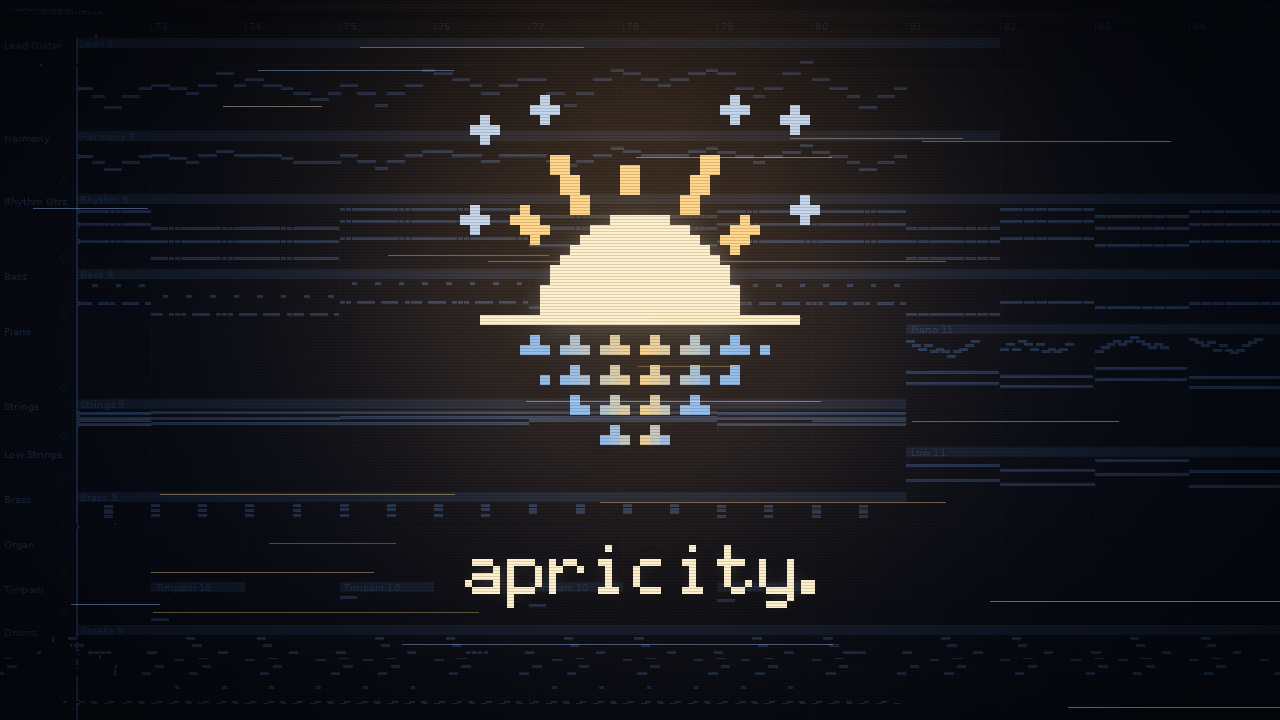
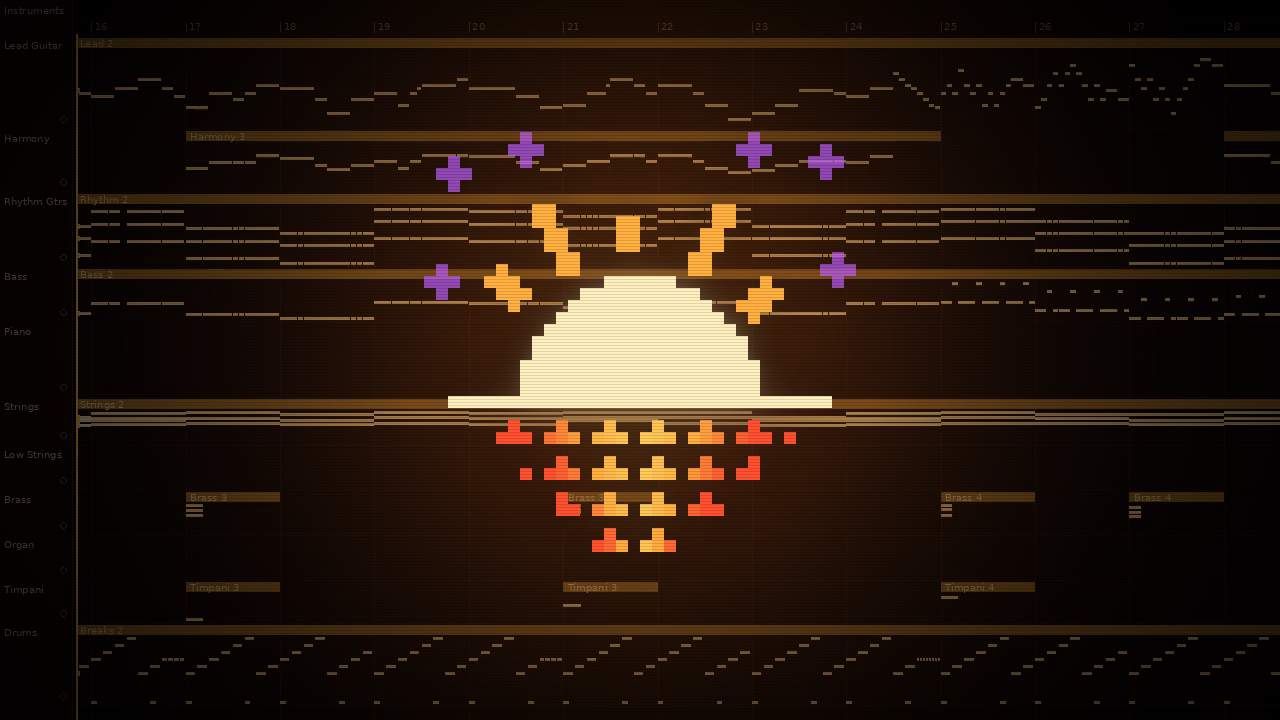
Thumbnail: song-video colours, no title, no random lines
Claude-Session: https://claude.ai/code/session_01C6DbbRrFrEA7dajvf5KuJJ

Changed region(s): [[0.0312, 0.0306, 1.0, 0.9472], [0.0938, 0.7944, 0.2188, 0.825], [0.7188, 0.7944, 0.8125, 0.825]]

diff --git a/music/tools/thumbnail.py b/music/tools/thumbnail.py
@@ -1,9 +1,9 @@
 """Thumbnail for "apricity." in the style of glitchy pixel-icon breakcore covers.
 
 usage: python3 thumbnail.py events.json drums.json song.mp3 out.png
-Background: the song's own arrangement view (from visualize.py), zoomed out, tinted cold and dimmed.
-Centre: a pixel-art winter sun sinking beneath the waves, with a soft glow and drifting snow.
-Below: the title in a pixel font. Scanlines and horizontal glitch bands over everything.
+Background: the song's own arrangement view (from visualize.py), zoomed out and dimmed.
+Centre: a pixel-art sun sinking beneath the waves, with a soft glow and violet sparks.
+Colours from the song video; faint scanlines.
 """
 import sys, os, subprocess, tempfile, random
 import numpy as np
@@ -12,8 +12,8 @@ sys.path.insert(0, os.path.dirname(__file__))
 import visualize
 
 W, H = 1280, 720
-GOLD, CREAM, EMBER = (255, 214, 140), (255, 240, 205), (232, 150, 70)
-COLD_DARK, COLD = (8, 12, 24), (70, 110, 170)
+# the song video's palette (the Drowned Sun fight): ember-black, molten orange, gold, cream, flare red, eclipse violet
+GOLD, CREAM, ORANGE, RED, VIOLET = (255, 208, 96), (255, 240, 192), (255, 176, 64), (255, 80, 48), (192, 96, 255)
 
 def arrangement(events, drums, audio, t=96.0):
     """One frame of the arrangement view, zoomed out so many bars are visible."""
@@ -34,18 +34,19 @@ def icon(grid=40):
         ang = np.pi + (k + 0.5) * np.pi / 7; L = 5 if k % 2 == 0 else 3
         x0, y0 = cx - 0.5 + np.cos(ang) * (r + 2), hy - 0.5 + np.sin(ang) * (r + 2)
         x1, y1 = cx - 0.5 + np.cos(ang) * (r + 2 + L), hy - 0.5 + np.sin(ang) * (r + 2 + L)
-        d.line([(round(x0), round(y0)), (round(x1), round(y1))], fill=GOLD, width=2)
+        d.line([(round(x0), round(y0)), (round(x1), round(y1))], fill=ORANGE, width=2)
     d.line([(cx - 16, hy), (cx + 15, hy)], fill=CREAM)            # the horizon
     for row, half in [(hy + 3, 13), (hy + 6, 10), (hy + 9, 7), (hy + 12, 4)]:   # swells, narrowing
         for x in range(cx - half, cx + half):
             if (x - cx) % 4 == 3: continue                        # little breaks between crests
             near = abs(x - cx + 0.5) / half
-            c = tuple(int(GOLD[i] + ((150, 190, 235)[i] - GOLD[i]) * min(1, near * 1.4)) for i in range(3))
+            f = min(1, near * 1.4); a0, a1, k = (GOLD, ORANGE, f * 2) if f < 0.5 else (ORANGE, RED, f * 2 - 1)
+            c = tuple(int(a0[i] + (a1[i] - a0[i]) * k) for i in range(3))
             d.point((x, row), fill=c)
             if (x - cx) % 4 == 1: d.point((x, row - 1), fill=c)   # a crest pixel above each wave
-    for fx, fy in [(4, 4), (35, 3), (3, 13), (36, 12), (10, 2), (29, 2)]:  # snowflakes: small crosses, in open sky
+    for fx, fy in [(4, 4), (35, 3), (3, 13), (36, 12), (10, 2), (29, 2)]:  # eclipse-violet sparks, in open sky
         for dx, dy in [(0, 0), (1, 0), (-1, 0), (0, 1), (0, -1)]:
-            d.point((fx + dx, fy + dy), fill=(214, 232, 255, 230))
+            d.point((fx + dx, fy + dy), fill=VIOLET + (175,))
     return img
 
 GLYPHS = {   # 5-wide pixel font, rows 0-6 + 2 descender rows
@@ -70,45 +71,24 @@ def pixel_text(text, scale):
     return m.resize((m.width * scale, m.height * scale), Image.NEAREST)
 
 def main(events, drums, audio, out):
-    rnd = random.Random(11)
-    # background: the arrangement, made cold and quiet
-    bg = arrangement(events, drums, audio).resize((W, H))
-    g = np.asarray(bg.convert('L'), np.float32) / 255
-    base = np.array(COLD_DARK, np.float32); tint = np.array(COLD, np.float32)
-    arr = base + (tint - base) * (g[..., None] ** 0.9) * 0.6
+    # background: the arrangement view in its own colours (a Phase I frame), dimmed, with a vignette
+    bg = arrangement(events, drums, audio, t=20.0).resize((W, H))
+    arr = np.asarray(bg, np.float32) * 0.55
     yy, xx = np.mgrid[0:H, 0:W]
-    vign = 1 - 0.55 * np.clip(np.hypot((xx - W / 2) / (W / 2), (yy - H / 2) / (H / 2)) - 0.25, 0, 1)
+    vign = 1 - 0.6 * np.clip(np.hypot((xx - W / 2) / (W / 2), (yy - H / 2) / (H / 2)) - 0.25, 0, 1)
     arr *= vign[..., None]
-    # a faint warm halo behind the sun
-    halo = np.exp(-(((xx - W / 2) ** 2 + (yy - 250) ** 2) / (2 * 200.0 ** 2)))
-    arr += np.array([60, 38, 14], np.float32) * halo[..., None]
-    img = Image.fromarray(np.clip(arr, 0, 255).astype(np.uint8))
-    # icon + glow
-    ic = icon(); s = 10; big = ic.resize((ic.width * s, ic.height * s), Image.NEAREST)
-    ox, oy = (W - big.width) // 2, 285 - big.height // 2
+    halo = np.exp(-(((xx - W / 2) ** 2 + (yy - H / 2 + 20) ** 2) / (2 * 220.0 ** 2)))   # warm light behind the sun
+    arr += np.array([70, 34, 8], np.float32) * halo[..., None]
+    img = Image.fromarray(np.clip(arr, 0, 255).astype(np.uint8)).convert('RGBA')
+    # the icon, centred, with a glow
+    ic = icon(); s = 12; big = ic.resize((ic.width * s, ic.height * s), Image.NEAREST)
+    ox, oy = (W - big.width) // 2, (H - big.height) // 2
     glow = Image.new('RGBA', (W, H), (0, 0, 0, 0)); glow.paste(big, (ox, oy), big)
-    glow = glow.filter(ImageFilter.GaussianBlur(18))
-    img = Image.alpha_composite(img.convert('RGBA'), Image.blend(Image.new('RGBA', (W, H), (0, 0, 0, 0)), glow, 0.75))
+    glow = glow.filter(ImageFilter.GaussianBlur(20))
+    img = Image.alpha_composite(img, Image.blend(Image.new('RGBA', (W, H), (0, 0, 0, 0)), glow, 0.75))
     img.alpha_composite(big, (ox, oy))
-    # title
-    tx = pixel_text('apricity.', 7); tcol = Image.new('RGBA', tx.size, CREAM + (255,)); tcol.putalpha(tx)
-    tglow = Image.new('RGBA', (W, H), (0, 0, 0, 0)); tx0, ty0 = (W - tx.width) // 2, 545
-    tglow.paste(tcol, (tx0, ty0), tcol); tglow = tglow.filter(ImageFilter.GaussianBlur(8))
-    img = Image.alpha_composite(img, Image.blend(Image.new('RGBA', (W, H), (0, 0, 0, 0)), tglow, 0.6))
-    img.alpha_composite(tcol, (tx0, ty0))
-    # glitch: shifted horizontal bands, bright hairlines, scanlines
     a = np.asarray(img.convert('RGB')).copy()
-    keep = [(oy - 10, oy + big.height + 10), (ty0 - 10, ty0 + tx.height + 10)]   # icon and title stay clean
-    n = 0
-    while n < 14:
-        y0 = rnd.randrange(0, H - 8); hgt = rnd.randrange(2, 9); sh = rnd.randrange(-40, 40)
-        if any(y0 < b and y0 + hgt > a0 for a0, b in keep): continue
-        a[y0:y0 + hgt] = np.roll(a[y0:y0 + hgt], sh, axis=1); n += 1
-    for _ in range(22):
-        y0 = rnd.randrange(0, H); x0 = rnd.randrange(0, W - 200); ln = rnd.randrange(80, 520)
-        c = np.array(rnd.choice([GOLD, (160, 200, 255), CREAM]), np.float32)
-        a[y0, x0:x0 + ln] = np.clip(a[y0, x0:x0 + ln] * 0.6 + c * 0.4, 0, 255)
-    a[::3] = (a[::3] * 0.86).astype(np.uint8)
+    a[::3] = (a[::3] * 0.88).astype(np.uint8)   # faint, even scanlines
     Image.fromarray(a).save(out)
     print('wrote', out)
 
